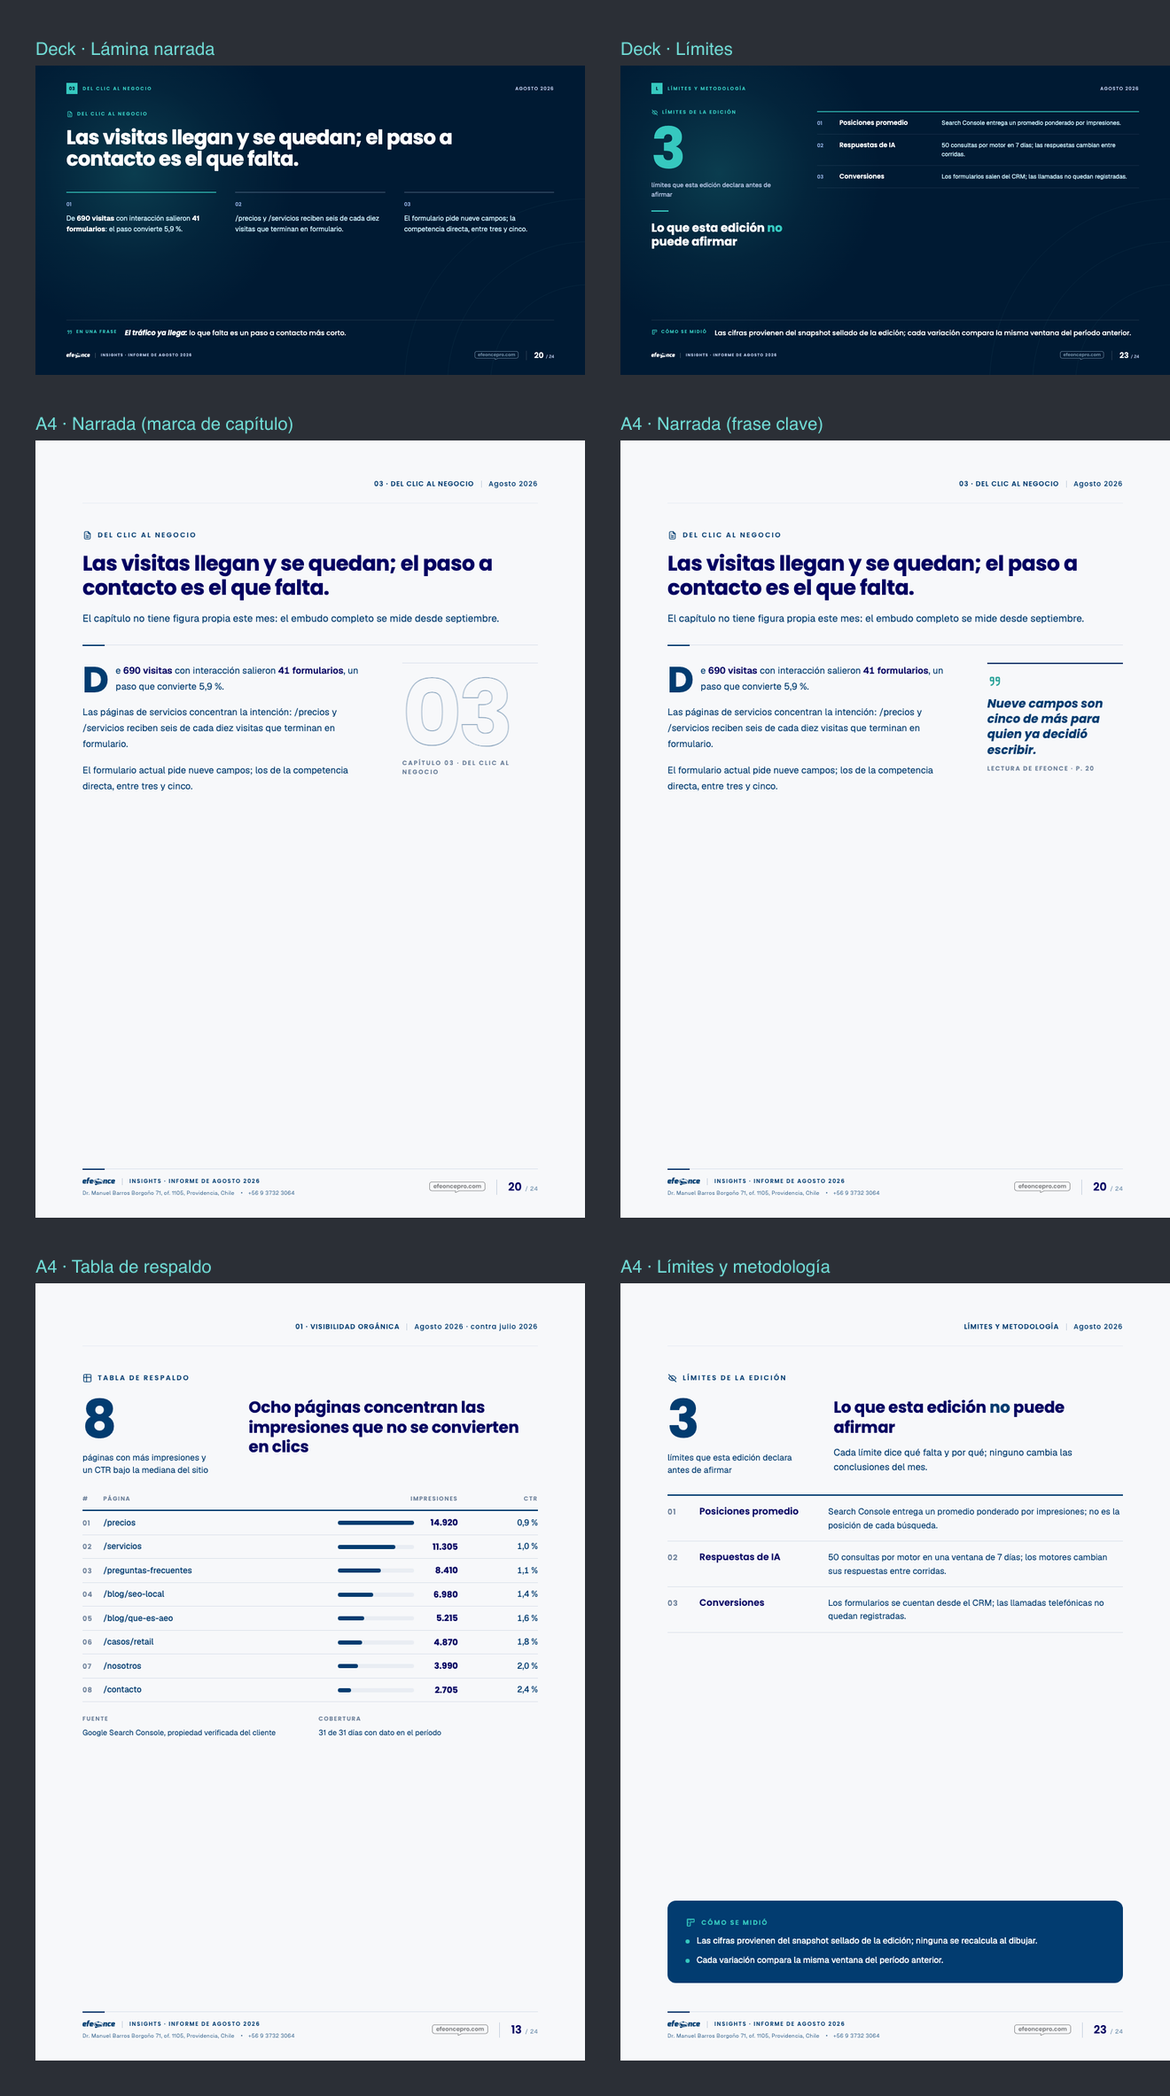
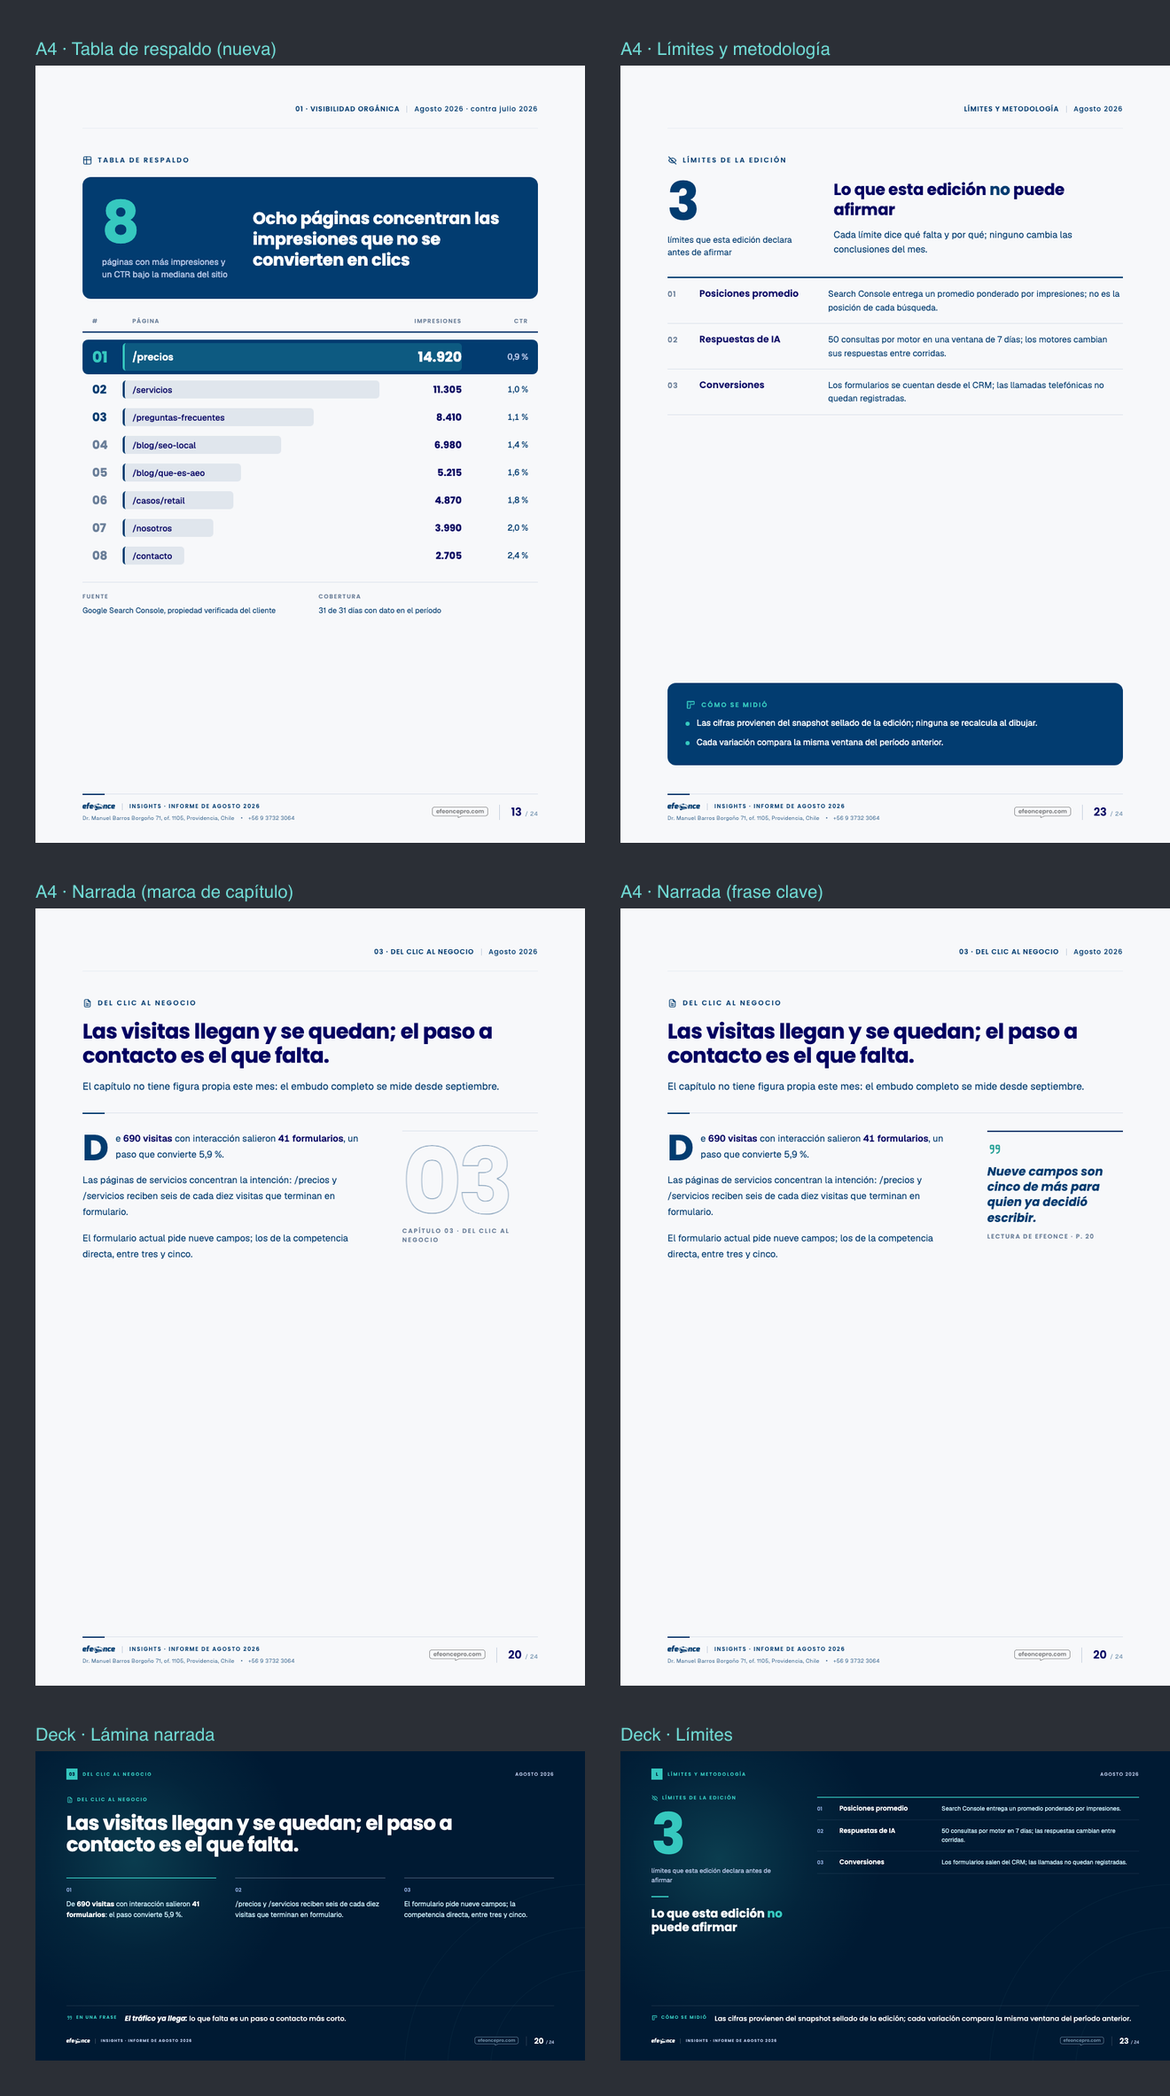
feat(insights): TASK-1889 — la tabla de respaldo como tablero de barras
Pedido del operador: «la tabla necesita más punch».

- Cabecera navy redondeada: la cifra contada (84 px, teal) y el título en blanco.
- Tablero de barras en grid: cada fila lleva detrás su barra, que sale del
  número impreso escalado contra el máximo de la tabla COMPLETA.
- La fila que alcanza ese máximo se vuelve banda navy (líder decidida por el
  dato, no por posición; en una página de continuación ninguna fila se
  promueve por ser la mayor de su página).
- Ranking en Poppins 700 con el top 3 en acento. Corrige un defecto: en una
  tabla que continúa, el ranking volvía a 01; ahora sigue (rankOffset).
- Capacidad: 16 filas por página (filas más altas).

Gate visual scoped re-congelado (20/20 a 0 px, delta declarado); 405 tests
de render y composer verdes.

Sin push.

diff --git a/src/lib/artifact-composer/catalogs/insights-report/report-table.html b/src/lib/artifact-composer/catalogs/insights-report/report-table.html
@@ -6,7 +6,8 @@
   ReportTablePage — tabla de respaldo del informe A4 (TASK-1889). Sin página propia en el canvas:
   toma la gramática aprobada — cifra protagonista (cuántas filas respaldan el capítulo), título que
   afirma, filas con ranking y la primera columna de valor con barra proporcional, y la procedencia en
-  las columnas «Unidad · Fuente» de las páginas de gráfico.
+  las columnas «Unidad · Fuente» de las páginas de gráfico. Cabecera navy, tablero de barras y la
+  fila líder (la que alcanza el máximo de la tabla completa) como banda navy.
 
   La barra SALE DEL DATO: el resolver lee el número impreso de cada fila y lo escala contra el máximo
   de la tabla completa (`barScaleMax`, lo pasa el mapper) para que dos páginas de la misma tabla no se
@@ -62,16 +63,40 @@
     color: var(--axis-report-role-labelMuted);
   }
 
-  .table-continued { margin-top: 6px; font-size: 11px; font-style: italic; color: var(--axis-report-role-labelMuted); }
+  /* Cabecera navy: la cifra contada y el título afirman antes de la primera fila. */
+  .table-hero {
+    margin-top: 16px;
+    padding: 26px 28px;
+    border-radius: 12px;
+    background: var(--axis-report-role-paperAccent);
+    color: var(--axis-report-role-navyInk);
+    display: grid;
+    grid-template-columns: 190px minmax(0, 1fr);
+    gap: 28px;
+    align-items: center;
+  }
+
+  .table-hero .hero-count { gap: 8px; }
+
+  .table-hero .hero-figure { font-size: 84px; color: var(--axis-report-role-navyAccent); }
+
+  .table-hero .hero-figure-text { color: var(--axis-report-role-navyMuted); }
+
+  .table-hero .hero-title { font-size: 24px; color: var(--axis-report-role-navyInk); }
+
+  .table-continued { margin: 10px 0 0; font-size: 11px; font-style: italic; color: var(--axis-report-role-navyMuted); }
 
   .table-continued:empty { display: none; }
 
-  table { margin-top: 26px; width: 100%; border-collapse: collapse; font-variant-numeric: tabular-nums; }
+  /* Tablero: cada fila es una barra. Columnas en px (nunca % con gap). */
+  .board { margin-top: 26px; display: flex; flex-direction: column; gap: 4px; font-variant-numeric: tabular-nums; }
 
-  thead th {
-    padding: 0 0 9px;
+  .board-head,
+  .board-row { display: grid; grid-template-columns: 46px minmax(0, 1fr) 118px 84px; column-gap: 12px; align-items: center; }
+
+  .board-head {
+    padding: 0 14px 8px;
     border-bottom: 2px solid var(--axis-report-role-paperAccent);
-    text-align: left;
     font-family: var(--axis-report-type-display);
     font-size: 8.5px;
     font-weight: 600;
@@ -80,31 +105,43 @@
     color: var(--axis-report-role-labelMuted);
   }
 
-  th:first-child { width: 30px; }
+  .board-head .col:nth-child(n + 3) { text-align: right; }
 
-  td { padding: 8px 0; border-bottom: 1px solid var(--axis-report-role-rule); font-size: 12px; line-height: 1.4; color: var(--axis-report-role-paperInk); vertical-align: middle; }
+  .board-rows { display: flex; flex-direction: column; gap: 4px; margin-top: 6px; }
 
-  th:nth-child(n + 3),
-  td:nth-child(n + 3) { text-align: right; padding-left: 16px; }
+  .board-row { position: relative; min-height: 36px; padding: 0 14px; border-radius: 8px; }
 
-  .row-rank { font-family: var(--axis-report-type-display); font-size: 10px; font-weight: 600; letter-spacing: 0.08em; color: var(--axis-report-role-labelMuted); }
+  /* La barra vive detrás de la fila, en el carril entidad + valor. Su ancho sale del dato. */
+  .row-lane { position: absolute; left: 58px; right: 110px; top: 5px; bottom: 5px; }
 
-  .row-entity { font-weight: 500; color: var(--axis-report-role-paperAccent); }
+  .row-bar { position: absolute; left: 0; top: 0; bottom: 0; border-radius: 5px; background: rgba(var(--axis-report-role-paperAccent-rgb), 0.09); border-left: 3px solid var(--axis-report-role-dataCurrentOnPaper); }
 
-  /* Primera columna de valor: la cifra que se compara, con su barra. */
-  .lead-cell { width: 190px; }
+  .row-rank, .row-entity, .row-value, .row-second { position: relative; }
 
-  .lead-wrap { display: flex; align-items: center; justify-content: flex-end; gap: 10px; }
+  .row-rank { font-family: var(--axis-report-type-display); font-size: 17px; font-weight: 700; letter-spacing: -0.01em; color: var(--axis-report-role-labelMuted); }
 
-  .lead-bar-track { flex-grow: 1; height: 6px; border-radius: 3px; background: var(--axis-report-role-ruleSoft); position: relative; }
+  .row-rank.rank--top { color: var(--axis-report-role-paperAccent); }
 
-  .lead-bar { position: absolute; left: 0; top: 0; bottom: 0; border-radius: 3px; background: var(--axis-report-role-dataCurrentOnPaper); }
+  .row-entity { font-size: 12.5px; font-weight: 500; color: var(--axis-report-role-paperInk); }
 
-  .lead-value { min-width: 54px; font-family: var(--axis-report-type-display); font-size: 12.5px; font-weight: 700; color: var(--axis-report-role-paperInk); }
+  .row-value { text-align: right; font-family: var(--axis-report-type-display); font-size: 14px; font-weight: 700; color: var(--axis-report-role-paperInk); }
 
-  .second-value { font-weight: 500; color: var(--axis-report-role-paperAccent); }
+  .row-second { text-align: right; font-size: 12px; font-weight: 500; color: var(--axis-report-role-paperAccent); }
 
-  .provenance { margin-top: 18px; display: grid; grid-template-columns: repeat(2, minmax(0, 1fr)); gap: 24px; }
+  /* La fila líder (alcanza el máximo de la tabla completa) se vuelve banda navy. */
+  .board-row.row--lead { min-height: 50px; background: var(--axis-report-role-paperAccent); }
+
+  .row--lead .row-bar { background: rgba(var(--axis-report-role-navyAccent-rgb), 0.22); border-left-color: var(--axis-report-role-navyAccent); }
+
+  .row--lead .row-rank { font-size: 22px; color: var(--axis-report-role-navyAccent); }
+
+  .row--lead .row-entity { font-family: var(--axis-report-type-display); font-size: 14px; font-weight: 600; color: var(--axis-report-role-navyInk); }
+
+  .row--lead .row-value { font-size: 20px; color: var(--axis-report-role-navyInk); }
+
+  .row--lead .row-second { color: var(--axis-report-role-navyMuted); }
+
+  .provenance { margin-top: 20px; padding-top: 14px; border-top: 1px solid var(--axis-report-role-rule); display: grid; grid-template-columns: repeat(2, minmax(0, 1fr)); gap: 24px; }
 
   .provenance-item { display: flex; flex-direction: column; gap: 5px; }
 
@@ -128,30 +165,29 @@
       <svg class="stroke-icon" width="14" height="14" viewBox="0 0 24 24" aria-hidden="true"><path d="M3 5a2 2 0 0 1 2 -2h14a2 2 0 0 1 2 2v14a2 2 0 0 1 -2 2h-14a2 2 0 0 1 -2 -2v-14z"></path><path d="M3 10h18"></path><path d="M10 3v18"></path></svg><span data-slot="eyebrow">Tabla de respaldo</span>
     </span>
 
-    <div class="hero">
+    <div class="table-hero">
       <div class="hero-count">
         <span class="hero-figure" data-slot="heroFigure">8</span>
-        <span class="hero-figure-text" data-slot="heroText">páginas concentran las impresiones con CTR bajo</span>
+        <span class="hero-figure-text" data-slot="heroText">filas de evidencia respaldan esta tabla</span>
       </div>
       <div class="hero-heading">
-        <h1 class="hero-title" data-slot="tableTitle">Páginas con más impresiones y CTR bajo</h1>
+        <h1 class="hero-title" data-slot="tableTitle">Ocho páginas concentran las impresiones que no se convierten en clics</h1>
         <p class="table-continued" data-slot="continuationLabel">Continúa de la página anterior</p>
       </div>
     </div>
 
-    <table>
-      <thead>
-        <tr data-slot="tableColumns"><th><span data-slot-field="label">#</span></th></tr>
-      </thead>
-      <tbody data-slot="tableRows">
-        <tr>
-          <td><span class="row-rank" data-slot-field="rank">01</span></td>
-          <td><span class="row-entity" data-slot-field="entity">/precios</span></td>
-          <td class="lead-cell"><span class="lead-wrap"><span class="lead-bar-track" data-slot-field="bar"><span class="lead-bar"></span></span><span class="lead-value" data-slot-field="valueA">14.920</span></span></td>
-          <td><span class="second-value" data-slot-field="valueB">0,9 %</span></td>
-        </tr>
-      </tbody>
-    </table>
+    <div class="board">
+      <div class="board-head" data-slot="tableColumns"><span class="col"><span data-slot-field="label">#</span></span></div>
+      <div class="board-rows" data-slot="tableRows">
+        <div class="board-row">
+          <span class="row-lane" data-slot-field="bar"><span class="row-bar"></span></span>
+          <span class="row-rank" data-slot-field="rank">01</span>
+          <span class="row-entity" data-slot-field="entity">/precios</span>
+          <span class="row-value" data-slot-field="valueA">14.920</span>
+          <span class="row-second" data-slot-field="valueB">0,9 %</span>
+        </div>
+      </div>
+    </div>
 
     <div class="provenance">
       <div class="provenance-item" data-slot="source"><span class="col-label" data-slot-field="label">Fuente</span><span class="provenance-text" data-slot-field="text">Google Search Console</span></div>

diff --git a/src/lib/artifact-composer/catalogs/insights-report/resolvers.ts b/src/lib/artifact-composer/catalogs/insights-report/resolvers.ts
@@ -14,10 +14,11 @@ import { insightsEditorialResolvers } from '../insights-shared/editorial-resolve
 export { parsePrintedNumber, roundingToleranceOf } from '../../bar-figure'
 
 /**
- * Barra de la primera columna de valor de la tabla de respaldo (TASK-1889). SALE DEL DATO: lee el
- * número impreso de la fila y lo escala contra `barScaleMax` —el máximo de la tabla COMPLETA, que
- * pasa el mapper— o, sin él, contra el máximo de la página. Una fila sin número legible o negativa
- * queda sin barra: nunca se dibuja una barra que el dato no sostiene.
+ * Barra de cada fila de la tabla de respaldo (TASK-1889). SALE DEL DATO: lee el número impreso de
+ * `valueA` y lo escala contra `barScaleMax` —el máximo de la tabla COMPLETA, que pasa el mapper— o,
+ * sin él, contra el máximo de la página. La fila que alcanza el máximo es la líder (banda navy): se
+ * decide por el dato, no por la posición. Una fila sin número legible o negativa queda sin barra;
+ * nunca se dibuja una barra que el dato no sostiene.
  */
 export const tableBarEffects = (item: Record<string, unknown>, slots: Record<string, unknown>): FieldEffect[] => {
   const value = parsePrintedNumber(item.valueA)
@@ -29,13 +30,34 @@ export const tableBarEffects = (item: Record<string, unknown>, slots: Record<str
   if (value === null || value < 0 || max <= 0) return [{ selector: ':field', remove: true }]
 
   const pct = Math.min(100, (value / max) * 100)
+  const effects: FieldEffect[] = [{ selector: '.row-bar', styleProp: 'width', styleValue: `${pct.toFixed(2)}%` }]
 
-  return [{ selector: '.lead-bar', styleProp: 'width', styleValue: `${pct.toFixed(2)}%` }]
+  if (value === max) effects.push({ selector: ':self', toneClass: 'row--lead', toneGroup: ['row--lead'] })
+
+  return effects
+}
+
+/**
+ * Ranking de la fila en la tabla COMPLETA: `rankOffset` (lo pasa el mapper) + posición en la página.
+ * Sin él, una tabla que continúa volvería a empezar en 01. Los tres primeros van en acento.
+ */
+export const tableRankEffects = (index: number, slots: Record<string, unknown>): FieldEffect[] => {
+  const offset = Number(slots.rankOffset ?? 0)
+  const rank = (Number.isFinite(offset) ? offset : 0) + index + 1
+  const effects: FieldEffect[] = [{ selector: ':field', asText: true, value: String(rank).padStart(2, '0') }]
+
+  if (rank <= 3) effects.push({ selector: ':field', toneClass: 'rank--top', toneGroup: ['rank--top'] })
+
+  return effects
 }
 
 export const insightsReportResolvers: ResolverRegistry = {
   /** Resolvers editoriales compartidos (TASK-1889): canal, ordinal, número, puntos, semanas, cierre. */
   ...insightsEditorialResolvers('report'),
+  'report-table-rank': {
+    known: ['<derivado de rankOffset y la posición>'],
+    build: (_value, ctx) => tableRankEffects(ctx.index, ctx.slots)
+  },
   'report-table-bar': {
     known: ['<derivado de valueA y barScaleMax>'],
     build: (_value, ctx) => tableBarEffects(ctx.item, ctx.slots)

diff --git a/src/lib/artifact-composer/__tests__/insights-editorial-resolvers.test.ts b/src/lib/artifact-composer/__tests__/insights-editorial-resolvers.test.ts
@@ -8,6 +8,7 @@ import {
   weekSpanEffects
 } from '../catalogs/insights-shared/editorial-resolvers'
 import { chapterNumeralX } from '../catalogs/insights-shared/layout-hooks'
+import { tableBarEffects, tableRankEffects } from '../catalogs/insights-report/resolvers'
 
 const ctx = (index: number) => ({ item: {}, index, itemCount: 5, slots: {} })
 
@@ -64,5 +65,23 @@ describe('resolvers editoriales de Insights (TASK-1889)', () => {
     expect(chapterNumeralX('11')).toBe(830)
     expect(chapterNumeralX('02')).toBe(850)
     expect(chapterNumeralX('10')).toBe(850)
+  })
+
+  it('la barra de la tabla sale del dato; la líder es la que alcanza el máximo de la tabla completa', () => {
+    const slots = { barScaleMax: '14.920', tableRows: [{ valueA: '11.305' }, { valueA: '8.410' }] }
+
+    expect(tableBarEffects({ valueA: '7.460' }, slots)).toEqual([{ selector: '.row-bar', styleProp: 'width', styleValue: '50.00%' }])
+    expect(tableBarEffects({ valueA: '14.920' }, slots)).toContainEqual({ selector: ':self', toneClass: 'row--lead', toneGroup: ['row--lead'] })
+    // En la página 2 la líder no está: ninguna fila se vuelve líder por ser la mayor DE LA PÁGINA.
+    expect(tableBarEffects({ valueA: '11.305' }, slots).some(e => e.toneClass === 'row--lead')).toBe(false)
+    expect(tableBarEffects({ valueA: '—' }, slots)).toEqual([{ selector: ':field', remove: true }])
+  })
+
+  it('el ranking de la tabla continúa entre páginas y marca el top 3', () => {
+    expect(tableRankEffects(0, {})).toEqual([
+      { selector: ':field', asText: true, value: '01' },
+      { selector: ':field', toneClass: 'rank--top', toneGroup: ['rank--top'] }
+    ])
+    expect(tableRankEffects(0, { rankOffset: '16' })).toEqual([{ selector: ':field', asText: true, value: '17' }])
   })
 })

diff --git a/src/lib/efeonce-insights/render/report-mapper.test.ts b/src/lib/efeonce-insights/render/report-mapper.test.ts
@@ -189,7 +189,7 @@ describe('buildInsightReportPlanInput', () => {
       s => s.contentType === 'report-table'
     )
 
-    expect(tablePages.length).toBe(3)
+    expect(tablePages.length).toBe(4) // 16 filas por página (tablero de barras, TASK-1889)
     expect((tablePages[0]!.slots as Record<string, unknown>).continuationLabel).toBeUndefined()
     expect((tablePages[1]!.slots as Record<string, unknown>).continuationLabel).toBeDefined()
   })
@@ -209,6 +209,10 @@ describe('buildInsightReportPlanInput', () => {
       expect(page.slots).toMatchObject({ heroFigure: '30', barScaleMax: '3000', source: { label: 'Fuente' } })
       expect((page.slots as { tableColumns: { label: string }[] }).tableColumns[0]).toEqual({ label: '#' })
     }
+
+    // El ranking continúa en la página siguiente: la segunda página empieza en la fila 17.
+    expect((pages[0]!.slots as { rankOffset?: string }).rankOffset).toBeUndefined()
+    expect((pages[1]!.slots as { rankOffset?: string }).rankOffset).toBe('16')
   })
 
   it('ninguna página de tabla excede la capacidad declarada del molde', () => {
@@ -220,7 +224,7 @@ describe('buildInsightReportPlanInput', () => {
 
     for (const page of buildInsightReportPlanInput({ edition, report, snapshot, plan: withTable }).slides) {
       if (page.contentType !== 'report-table') continue
-      expect((page.slots as { tableRows: unknown[] }).tableRows.length).toBeLessThanOrEqual(26)
+      expect((page.slots as { tableRows: unknown[] }).tableRows.length).toBeLessThanOrEqual(16)
     }
   })
 

diff --git a/src/lib/efeonce-insights/render/report-mapper.ts b/src/lib/efeonce-insights/render/report-mapper.ts
@@ -56,7 +56,7 @@ import { withDedupedLimits } from './plan-limits'
 /** Capacidades declaradas por plantilla (`*.slots.json`). Son del molde, no preferencias. */
 const CAPACITY = {
   /** Filas por página de tabla (`tableRows.maxItems`). */
-  tableRows: 20,
+  tableRows: 16,
   /** Párrafos por página narrativa (`paragraphs.maxItems`). */
   paragraphs: 6,
   /** Límites por página de cierre (`limits.maxItems`). */
@@ -192,7 +192,7 @@ const chapterBodyPages = (
             heroText: L.tableRowsText,
             tableTitle: rejectIfLonger(table.title, BUDGET.tableTitle, `${table.tableId}.title`),
             // La continuación se declara: una tabla que sigue sin decirlo obliga a retroceder.
-            ...(i > 0 ? { continuationLabel: L.tableContinued } : {}),
+            ...(i > 0 ? { continuationLabel: L.tableContinued, rankOffset: String(i * CAPACITY.tableRows) } : {}),
             tableColumns: ['#', ...table.columns.slice(0, 3)].map(label => ({ label })),
             tableRows: rows.map(row => ({
               entity: String(row[0] ?? '—'),

diff --git a/scripts/frontend/baselines/artifact-composer/BASELINE_DELTAS.md b/scripts/frontend/baselines/artifact-composer/BASELINE_DELTAS.md
@@ -1,5 +1,13 @@
 # Artifact Composer — BASELINE_DELTAS (contrato de dos vías)
 
+## 2026-09-25 (d) — TASK-1889: la tabla de respaldo gana punch
+
+Pedido del operador («la tabla necesita más punch»). Cabecera navy con la cifra contada en teal, tablero de
+barras (cada fila con su barra detrás, desde el dato) y la fila que alcanza el máximo de la tabla completa
+como banda navy. El ranking continúa entre páginas (`rankOffset`), antes volvía a 01.
+
+- `templates-insights-report/ReportTablePage.png` — tablero de barras con cabecera navy y fila líder
+
 ## 2026-09-25 (c) — TASK-1889: narrada, tabla y límites elevadas al nivel del canvas
 
 Pedido del operador («muy sencillas para lo premium del diseño V2»). Las cinco piezas sin página propia en
@@ -454,7 +462,7 @@ aparece está cubierto por la tabla de arriba):
 `sky/19-contraportada.png` · `sky/19-seguro.png` · `sky/20-cumplimiento.png` · `sky/21-economica.png` ·
 `sky/22-contraportada.png`
 
-<!-- manifest-digest: 9d3a41f406149e80f0bd243a1d66da55a555a9c02a0f4d75f598bc1b2af5efb6 -->
+<!-- manifest-digest: f659c5b36f484774683a13e59be0371a6cd0aadd034446160b80b73318f56731 -->
 
 Este ledger existe porque **un rebaseline silencioso es peor que no tener gate**: el gate se
 "arregla" promoviendo el baseline y nadie se entera.
